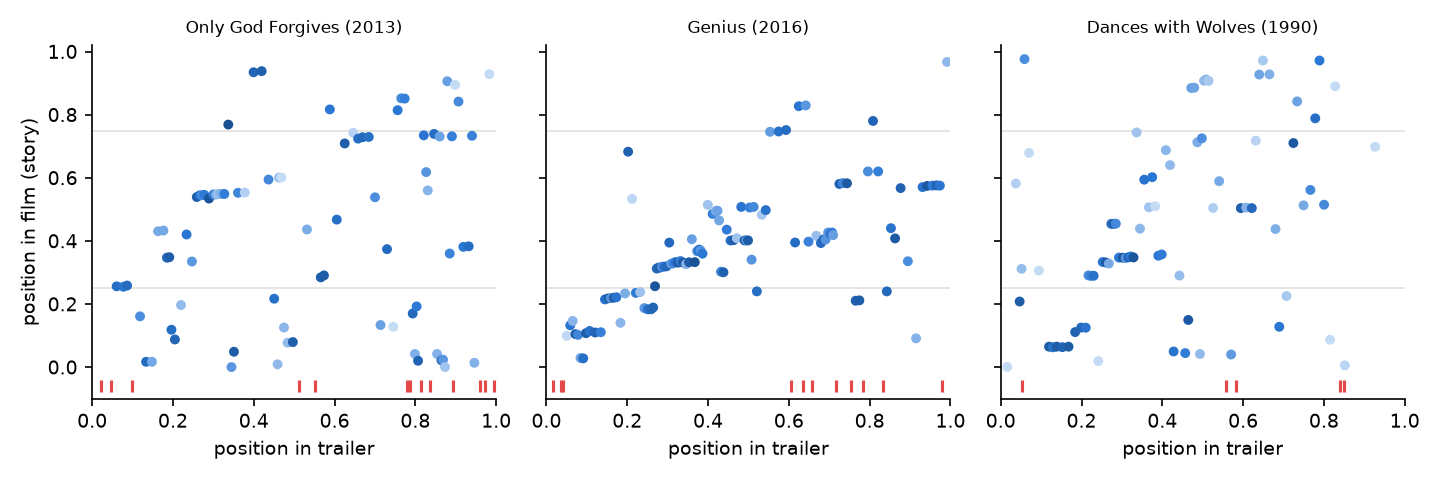
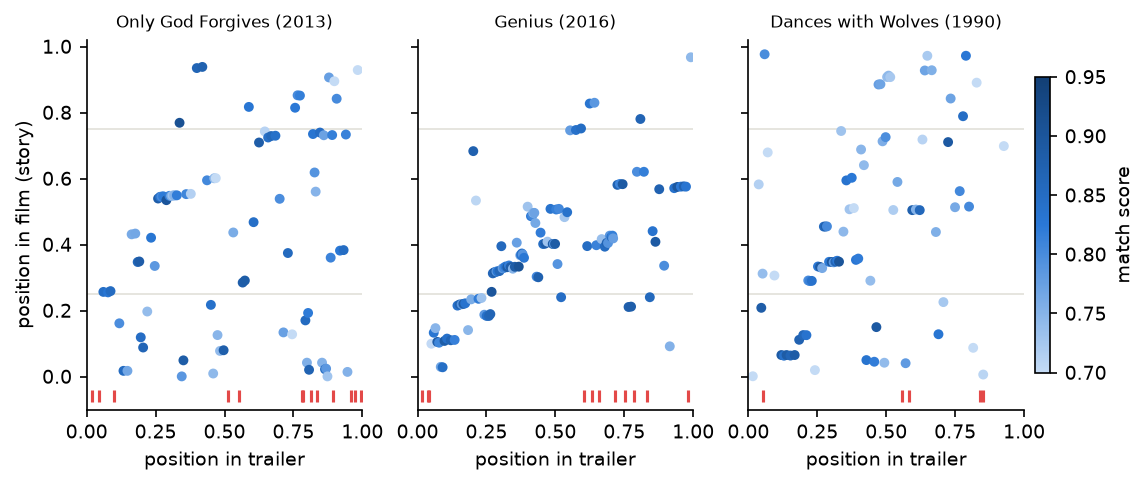
Course guidelines pass: EBM bands and shots-per-bin, PR chance line at the positive rate, colorbar on the match-score scatter, why-panel shows top 3 reasons as odds vs the average shot (association, not cause)

diff --git a/viz/rq1.html b/viz/rq1.html
@@ -224,7 +224,7 @@ const label = n => ({ random: "random picks", position_only: "story position onl
 function ebm(curves, lift) {
   const box = d3.select("#ebm").html("");
   if (!curves) { d3.select("#ebm-card").style("display", "none"); return; }
-  d3.select("#ebm-sub").text(`Odds of making the trailer, from an interpretable model (${times(lift)} lift, about the same as the black-box model).`);
+  d3.select("#ebm-sub").text(`Odds of making the trailer vs the average shot, from an interpretable model (${times(lift)} lift, about the same as the black-box model). Band: spread across the model's bags; grey strip: shots per bin. Associations, not causes.`);
   // one y range for every panel, from the data, so nothing is clipped and panels compare
   const all = curves.flatMap(c => c.y), Y = [Math.min(0.8, d3.min(all) / 1.08), Math.max(1.25, d3.max(all) * 1.08)];
   const ticks = [0.25, 0.4, 0.5, 0.6, 0.8, 1, 1.25, 1.6, 2, 2.5, 3, 4].filter(t => t >= Y[0] && t <= Y[1]);
@@ -236,6 +236,16 @@ function ebm(curves, lift) {
     const x = d3.scaleLinear(d3.extent(c.x), [m.l, w - m.r]), y = d3.scaleLog(Y, [H - m.b, m.t]).clamp(true);
     ticks.forEach(t => svg.append("line").attr("class", t === 1 ? "ref" : "gridline").attr("x1", m.l).attr("x2", w - m.r).attr("y1", y(t)).attr("y2", y(t)));
     const pts = c.x.map((v, i) => [v, c.y[i]]);
+    // a curve is only as good as its support: shots per bin as a strip along the bottom, and the
+    // spread over the model's bags as a band
+    if (c.n) {
+      const nMax = d3.max(c.n) || 1, xs = [...c.x, x.domain()[1]];
+      svg.append("g").selectAll("rect").data(c.n).join("rect").attr("fill", "var(--axis)")
+        .attr("x", (_, i) => x(xs[i])).attr("width", (_, i) => Math.max(0.5, x(xs[i + 1]) - x(xs[i]) - 1))
+        .attr("y", n => H - m.b - 12 * n / nMax).attr("height", n => 12 * n / nMax);
+    }
+    if (c.lo) svg.append("path").attr("fill", "var(--band)")
+      .attr("d", d3.area().x(d => x(d[0])).y0(d => y(d[1])).y1(d => y(d[2])).curve(d3.curveStepAfter)(c.x.map((v, i) => [v, c.lo[i], c.hi[i]])));
     svg.append("path").attr("fill", "none").attr("stroke", "var(--pos)").attr("stroke-width", 2)
       .attr("d", d3.line().x(d => x(d[0])).y(d => y(d[1])).curve(d3.curveStepAfter)(pts));
     svg.append("g").attr("class", "axis").attr("transform", `translate(0,${H - m.b})`).call(d3.axisBottom(x).ticks(4).tickSizeOuter(0));
@@ -247,12 +257,14 @@ function ebm(curves, lift) {
         const px = d3.pointer(ev)[0], v = x.invert(px), k = Math.max(0, d3.bisectRight(c.x, v) - 1);
         hair.style("display", null).attr("x1", px).attr("x2", px);
         dot.style("display", null).attr("cx", px).attr("cy", y(c.y[k]));
-        showTip(ev, `<b>${times(c.y[k])}</b> ${esc(c.name)} ${d3.format(".3~g")(c.x[k])}`);
+        showTip(ev, `<b>${times(c.y[k])}</b> ${esc(c.name)} ${d3.format(".3~g")(c.x[k])}` +
+          (c.lo ? `<br>band ${fmtL(c.lo[k])} to ${fmtL(c.hi[k])}` : "") + (c.n ? `<br>${d3.format(",")(c.n[k])} shots` : ""));
       })
       .on("mouseleave", () => { hideTip(); hair.style("display", "none"); dot.style("display", "none"); });
   });
-  table("ebm", [["feature", r => r.name], ["value from", r => d3.format(".3~g")(r.x)], ["odds vs average", r => times(r.y)]],
-    curves.flatMap(c => c.x.map((v, i) => ({ name: c.name, x: v, y: c.y[i] }))));
+  table("ebm", [["feature", r => r.name], ["value from", r => d3.format(".3~g")(r.x)], ["odds vs average", r => times(r.y)],
+    ["band", r => r.lo != null ? `${fmtL(r.lo)} to ${fmtL(r.hi)}` : "–"], ["shots", r => r.n != null ? d3.format(",")(r.n) : "–"]],
+    curves.flatMap(c => c.x.map((v, i) => ({ name: c.name, x: v, y: c.y[i], lo: c.lo && c.lo[i], hi: c.hi && c.hi[i], n: c.n && c.n[i] }))));
 }
 
 d3.json("data/rq1.json").then(D => {

diff --git a/viz/index.html b/viz/index.html
@@ -166,6 +166,7 @@ let cur = -1, curLine = -1;      // shot and spoken line under the playhead
 let preview = null;              // hover while paused: {trailer?, film?}
 let focusFilm = null;            // a clicked film shot that isn't in the trailer
 let expanded = null;             // feature group opened in the "why" bars
+let allGroups = false;           // the "why" bars show the top 3 groups unless opened
 
 const esc = s => String(s).replace(/[&<>"]/g, c => ({ "&": "&amp;", "<": "&lt;", ">": "&gt;", '"': "&quot;" }[c]));
 const fmtT = s => `${Math.floor(s / 60)}:${String(Math.floor(s % 60)).padStart(2, "0")}`;
@@ -341,7 +342,7 @@ function drawNow(h) {
       (users.length ? `<figure>${img(tImg(users[0]))}<figcaption>trailer · shot ${users[0] + 1}</figcaption></figure>` : "");
   }
   box.html(`<div class="head">${head}</div><div class="frames">${frames}</div>` +
-    `<div class="why-h"><span>Why this film shot?</span><span>blue: toward the trailer · red: away</span></div><svg id="shap"></svg>`);
+    `<div class="why-h"><span>What moved the model's score, vs the average shot</span><span>blue: toward the trailer · red: away</span></div><svg id="shap"></svg>`);
   drawShap(j);
 }
 
@@ -349,8 +350,11 @@ function drawShap(i) {
   const f = D.film, svg = d3.select("#shap");
   if (i === null || !f.shap || f.trailerness[i] == null) { d3.select("#now .why-h").remove(); svg.remove(); return; }
   const w = document.getElementById("now").clientWidth - 30;
+  // a few reasons read better than all of them: top 3 groups, the rest behind "more"
   let rows = f.shap_groups.map((g, k) => ({ key: g, label: GROUP_LABEL[g], v: f.shap[i][k], group: true }));
   rows.sort((a, b) => Math.abs(b.v) - Math.abs(a.v));
+  const hidden = rows.length - 3;
+  if (!allGroups && hidden > 0) rows = rows.slice(0, 3);
   const detail = f.detail[i];
   if (expanded && detail) {
     const at = rows.findIndex(r => r.key === expanded);
@@ -370,8 +374,14 @@ function drawShap(i) {
     .text(r => r.group ? `${r.key === expanded ? "▾" : r.key === "clip" || !detail ? " " : "▸"} ${r.label}` : r.label);
   g.append("path").attr("d", r => bar(x(0), x(r.v), 4, 12))
     .attr("fill", r => r.v >= 0 ? "var(--pos)" : "var(--neg)").attr("opacity", r => r.group ? 1 : 0.7);
+  // values are log-odds contributions; shown as what they do to the odds (×1.5 = 50% better odds)
   g.append("text").attr("class", "val").attr("y", 14).attr("x", r => r.v >= 0 ? x(r.v) + 4 : x(r.v) - 4)
-    .attr("text-anchor", r => r.v >= 0 ? "start" : "end").text(r => d3.format("+.2f")(r.v));
+    .attr("text-anchor", r => r.v >= 0 ? "start" : "end").text(r => `×${d3.format(".2f")(Math.exp(r.v))}`);
+  if (hidden > 0) {
+    svg.attr("height", H + 18).attr("viewBox", `0 0 ${w} ${H + 18}`);
+    svg.append("text").attr("class", "lbl").attr("y", H + 12).style("cursor", "pointer")
+      .text(allGroups ? "▴ fewer" : `▾ ${hidden} more`).on("click", () => { allGroups = !allGroups; drawShap(i); });
+  }
 }
 // a horizontal bar from x0 (the baseline, square) to x1 (the data end, rounded 4px)
 function bar(x0, x1, y, h) {

diff --git a/src/trailercut/model_ebm.py b/src/trailercut/model_ebm.py
@@ -54,8 +54,13 @@ def main():
     curves = {}
     for k, name in enumerate(m.term_names_):
         d = m.explain_global().data(k)
+        dens = d.get("density") or {}
         curves[name] = dict(x=[float(v) if not isinstance(v, str) else v for v in d["names"]],
-                            score=[float(v) for v in d["scores"]], importance=float(imp[name]))
+                            score=[float(v) for v in d["scores"]], importance=float(imp[name]),
+                            # spread over the outer bags, and shots per bin: a curve is only as good as its support
+                            lo=[float(v) for v in d.get("lower_bounds", d["scores"])],
+                            hi=[float(v) for v in d.get("upper_bounds", d["scores"])],
+                            n=[int(v) for v in dens.get("scores", [])])
     lgb = json.loads((FEATURES / "model_eval.json").read_text())["k0"]["readable"]["lift"]
     (FEATURES / "model_ebm.json").write_text(json.dumps(dict(metrics=res, lightgbm_readable_lift=lgb, curves=curves), indent=2))
     print(f"EBM lift {res['lift']:.2f} (LightGBM, same features: {lgb:.2f}); ap_film {res['ap_film']:.3f}")
@@ -73,6 +78,8 @@ def plot(curves, df):
         x, s = np.array(c["x"], dtype=float), np.exp(c["score"])
         lo, hi = df[name].quantile([0.01, 0.99])
         keep = (x[:-1] >= lo) & (x[:-1] <= hi)
+        if "lo" in c:  # band from the outer bags
+            ax.fill_between(x[:-1][keep], np.exp(c["lo"])[keep], np.exp(c["hi"])[keep], step="post", color="#2a78d6", alpha=0.15, lw=0)
         ax.step(x[:-1][keep], s[keep], where="post", color="#2a78d6", lw=1.8)
         ax.set_yscale("log")
         ax.axhline(1, color="#898781", lw=0.8, ls="--")

diff --git a/src/trailercut/rq1_export.py b/src/trailercut/rq1_export.py
@@ -90,9 +90,13 @@ def main():
             edges, score = np.array(c["x"], dtype=float), np.exp(c["score"])
             lo, hi = df[name].quantile([0.01, 0.99])
             keep = (edges[:-1] >= lo) & (edges[:-1] <= hi)
-            out["ebm"].append(dict(name=EBM_LABEL.get(name, name.removeprefix("c_").replace("_", " ")),
-                                   x=[round(float(v), 4) for v in edges[:-1][keep]],
-                                   y=[round(float(v), 4) for v in score[keep]]))
+            r4 = lambda a: [round(float(v), 4) for v in np.asarray(a)[keep]]
+            cur = dict(name=EBM_LABEL.get(name, name.removeprefix("c_").replace("_", " ")), x=r4(edges[:-1]), y=r4(score))
+            if "lo" in c:  # band (spread over the outer bags) and shots per bin (support)
+                cur.update(lo=r4(np.exp(c["lo"])), hi=r4(np.exp(c["hi"])))
+            if len(c.get("n", [])) == len(score):
+                cur["n"] = [int(v) for v in np.asarray(c["n"])[keep]]
+            out["ebm"].append(cur)
         out["ebm_lift"] = e["metrics"]["lift"]
     OUT.parent.mkdir(parents=True, exist_ok=True)
     OUT.write_text(json.dumps(out, allow_nan=False))

diff --git a/src/trailercut/figures.py b/src/trailercut/figures.py
@@ -63,7 +63,7 @@ def alignment_plot(al, ids):
         d = al[al.imdb_id == imdb_id]
         m = d[d.matched]
         fs = mn.shots(imdb_id)
-        ax.scatter(m.trailer_pos, m.film_story_pos, c=m.score, cmap=SEQ, vmin=0.7, vmax=0.95, s=14)
+        sc = ax.scatter(m.trailer_pos, m.film_story_pos, c=m.score, cmap=SEQ, vmin=0.7, vmax=0.95, s=14)
         u = d[~d.matched]
         ax.scatter(u.trailer_pos, np.full(len(u), -0.06), marker="|", c=NEG, s=30, label="no match")
         for y in (0.25, 0.75):
@@ -73,8 +73,8 @@ def alignment_plot(al, ids):
         ax.set_xlim(0, 1)
     np.atleast_1d(axes)[0].set_ylabel("position in film (story)")
     np.atleast_1d(axes)[0].set_ylim(-0.1, 1.02)
-    fig.tight_layout()
-    fig.savefig(FIGURES / "alignment_examples.png")
+    fig.colorbar(sc, ax=axes, shrink=0.8, pad=0.01, label="match score")  # the color needs a scale
+    fig.savefig(FIGURES / "alignment_examples.png", bbox_inches="tight")
     plt.close(fig)
 
 

diff --git a/src/trailercut/model_figures.py b/src/trailercut/model_figures.py
@@ -34,6 +34,8 @@ def pr_curves(preds):
         p, r, _ = precision_recall_curve(preds.in_trailer, preds[key])
         main = key in ("readable", "full", "clip_only")
         ax.plot(r, p, color=color, lw=2 if main else 1.2, ls="-" if main else "--", label=label)
+    ax.axhline(base, color="#898781", lw=0.8)  # chance: a random ranking's precision is the positive rate
+    ax.text(0.99, base, "chance", ha="right", va="bottom", fontsize=7, color="#52514e", transform=ax.get_yaxis_transform())
     ax.set_xlim(0, 1)
     # the curves sit near the positive rate; zoom there (precision spikes at recall ~0 are a handful of shots)
     ax.set_ylim(0, 0.3)
